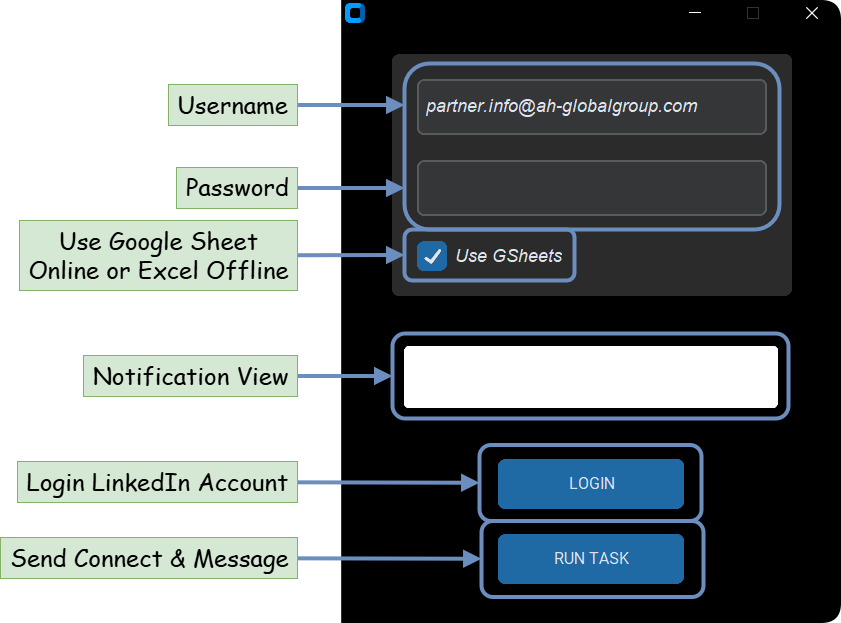
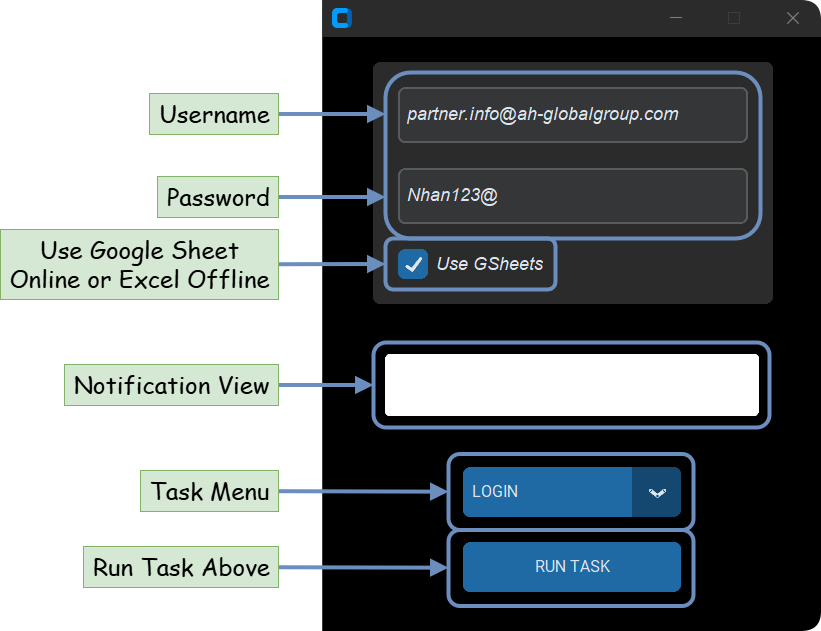
UPDATE TOOL GUIDE

Changed region(s): [[0.0, 0.0, 1.0, 1.0], [0.6395, 0.8844, 0.7613, 0.9149]]

diff --git a/README.md b/README.md
@@ -20,7 +20,7 @@
 3. *Khởi động ứng dụng `app.exe`.*
    - *Nhập tên tại khoản và mật khẩu LinkedIn.*
    - *Tùy chọn `Use GSheet`.*
-4. *Nhấn nút `LOGIN` để tiến hành đăng nhập vào website LinkedIn.*
+4. *Chọn tác vụ `LOGIN` trong `Task Menu` & Nhấn nút `RUN TASK` để tiến hành đăng nhập vào website LinkedIn.*
    - *Đợi cho đến khi `Notification View` hiển thị `LOGIN SUCCESSFULLY`.*
 
       ![](https://github.com/TAHKInteractingAI/BOT_LINKEDIN/blob/main/public/DESCRIPTION_1.png)
@@ -30,7 +30,7 @@
 
       ![](https://github.com/TAHKInteractingAI/BOT_LINKEDIN/blob/main/public/DESCRIPTION_2.png)
 
-5. *Nhấn nút `RUN TASK` để tiến hành các tác vụ chính bao gồm gửi kết nối và gửi tin nhắn.*
+5. *Chọn các tác vụ khác trong `Task Menu` & Nhấn nút `RUN TASK` để thực thi tác vụ.*
    - *Đợi cho đến khi 'Notification View' hiển thị `TASK COMPLETED` thì quá trình thực thi sẽ kết thúc.*
 
       ![](https://github.com/TAHKInteractingAI/BOT_LINKEDIN/blob/main/public/DESCRIPTION_3.png)
